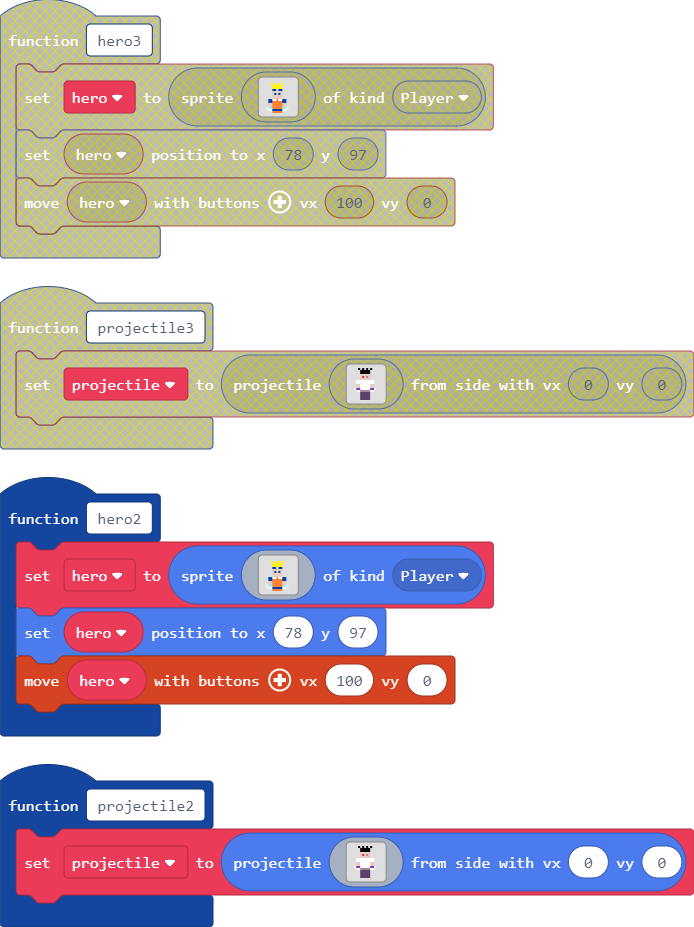
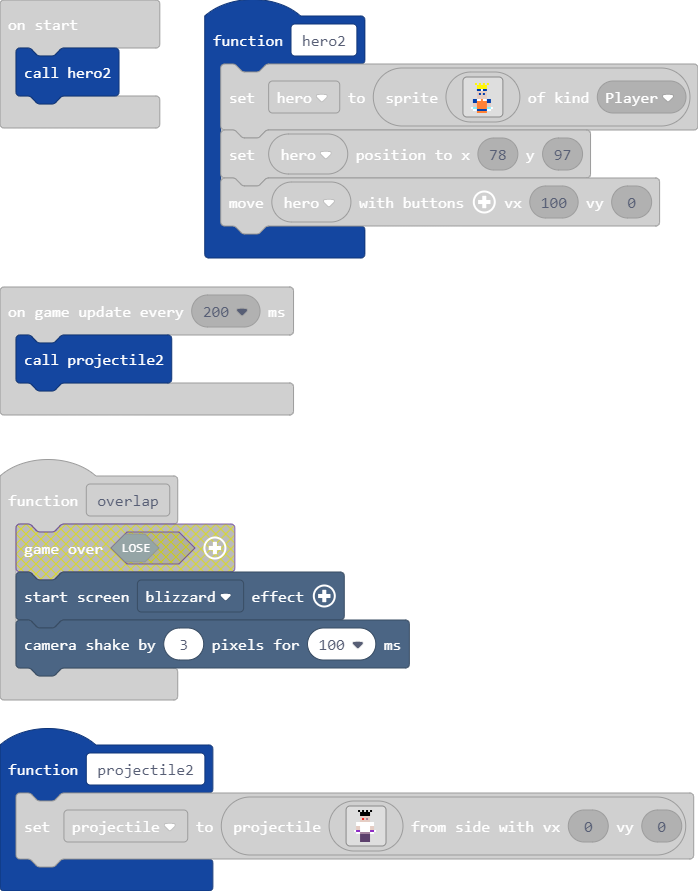
Update main.blocks, main.ts

diff --git a/main.ts b/main.ts
@@ -1,5 +1,5 @@
-function hero () {
-    hero2 = sprites.create(img`
+function hero2 () {
+    hero = sprites.create(img`
 . . . . . . . . . . . . . . . . 
 . . . . 5 . 5 . 5 . 5 . . . . . 
 . . . . . 5 5 5 5 5 . . . . . . 
@@ -17,8 +17,8 @@ function hero () {
 . . . 1 1 8 8 8 8 8 1 1 . . . . 
 . . . . . 4 4 4 4 4 . . . . . . 
 `, SpriteKind.Player)
-    hero2.setPosition(78, 97)
-    controller.moveSprite(hero2, 100, 0)
+    hero.setPosition(78, 97)
+    controller.moveSprite(hero, 100, 0)
 }
 function score () {
     info.changeScoreBy(1)
@@ -28,10 +28,11 @@ sprites.onOverlap(SpriteKind.Player, SpriteKind.Projectile, function (sprite, ot
     overlap()
 })
 function overlap () {
-    game.over(false)
+    effects.blizzard.startScreenEffect()
+    scene.cameraShake(3, 100)
 }
-function projectile () {
-    projectile2 = sprites.createProjectileFromSide(img`
+function projectile2 () {
+    projectile = sprites.createProjectileFromSide(img`
 . . . . f . f . f . f . . . . . 
 . . . . . f f f f f . . . . . . 
 . . . . . f f f f f . . . . . . 
@@ -50,9 +51,9 @@ function projectile () {
 . . . . . c c c c c . . . . . . 
 `, 0, 0)
 }
-let projectile2: Sprite = null
-let hero2: Sprite = null
-hero()
+let projectile: Sprite = null
+let hero: Sprite = null
+hero2()
 game.onUpdateInterval(200, function () {
-    projectile()
+    projectile2()
 })
